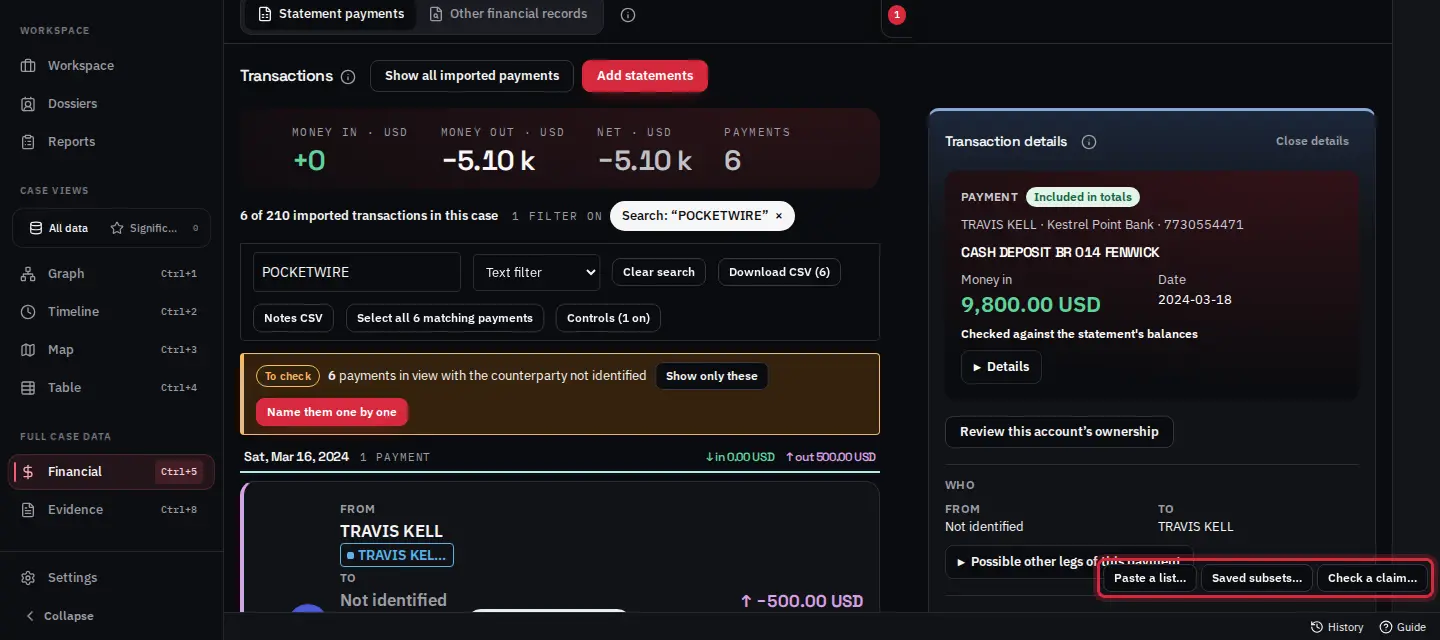
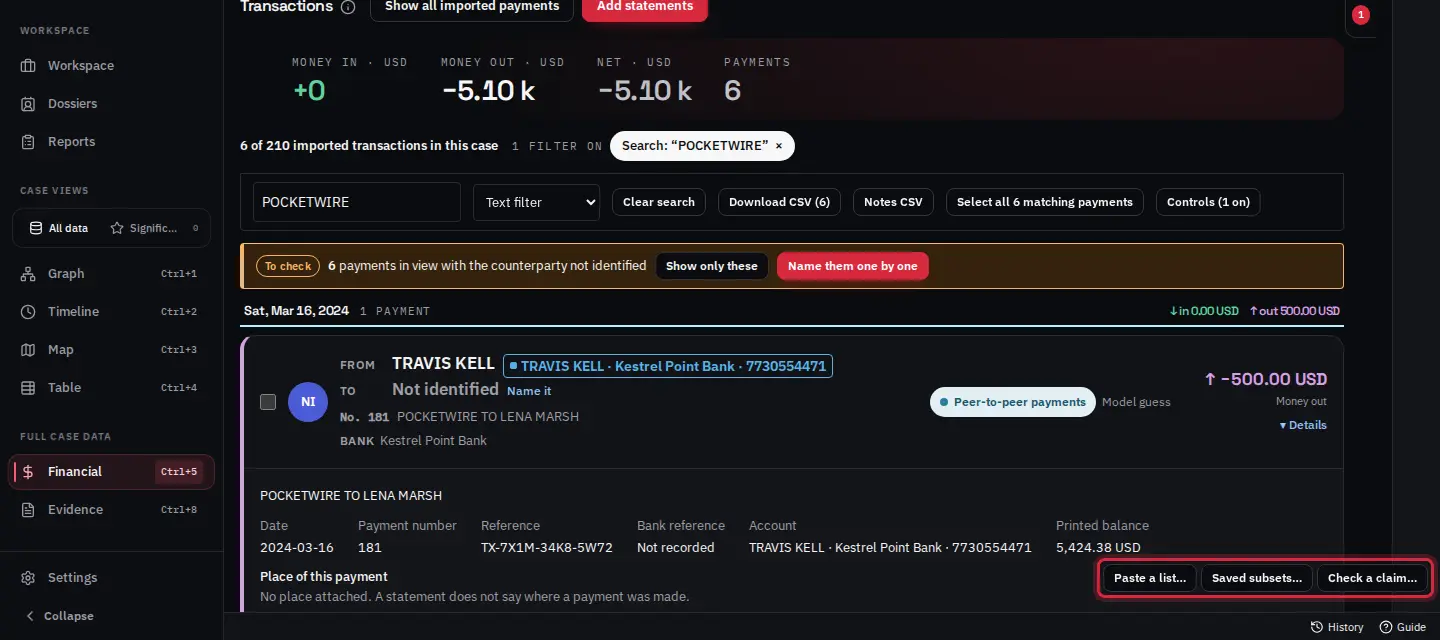
Workflow guide: Corroborate on by default, both versions taught
Corroborate's newer version is now on for everyone (?corroborate-v2=off
turns it off). With it on, a payment's Corroborate adds it to the
selection and opens a panel over the page; the classic version's steps
no longer describe what a person sees. A step can now be hidden while a
switch is on (unless), so the Corroborate workflow carries the classic
path for a browser with the switch off and the new one (Corroborate,
Leads already here, Ask a new question, the selection, the answer in
Leads) for everyone else; tests check every workflow has 4 to 12 steps
with all switches on and with all off.

The seven new Corroborate features the coverage test listed as
exceptions ("behind the new Corroborate") now each have a step, taken
live with the switch on: Show these records (Leads), Who overlaps with
whom and Also elsewhere (Who was in contact), Money around an event
(Where did the money go, the five theft nights), People, go-betweens
and documents (Graph), and comparing drawn areas (Was he there).

Stills: each picture starts with an empty Corroborate selection, the
view-only reads behind the panel and Around an event are allowed, and
the conversation "also reviewing" signal no longer fails a run. Live
check: --corroborate on|off.

diff --git a/frontend_v2/src/features/guidance/workflows/tutorials/casework.ts b/frontend_v2/src/features/guidance/workflows/tutorials/casework.ts
@@ -97,14 +97,17 @@ export const DISCONFIRM: TutorialStep[] = [
 ]
 
 /** Corroborate: how could these items be linked? */
+const CLASSIC_RESULT = "Open Details on a payment: Corroborate is inside, and its result opens on a page of its own."
 export const CORROBORATE: TutorialStep[] = [
+  // the classic Corroborate, for a browser with the new one turned off
   {
     title: "Mark the items as possibly related",
-    body: "Press Corroborate beside Add to theory on any payment, event, message, map area or search hit. Loupe saves them as one group and checks it against the records.",
+    body: "Press Corroborate beside Add to theory on any payment, event, message, map area or search hit, then Start a new look. Loupe saves them as one group and checks it against the records.",
     expect: "Corroborate in the details of the Pocketwire payments to Lena Marsh and Desmond Okafor.",
     shot: "co-payment",
     alt: "A payment's details with the Corroborate button marked.",
-    open: { to: "financial?view=transactions", target: ["text=Corroborate", "text=▸ Details"], then: "Open Details on a payment: Corroborate is inside, and its result opens on a page of its own." },
+    open: { to: "financial?view=transactions", target: ["text=Corroborate", "text=▸ Details"], then: CLASSIC_RESULT },
+    unless: "corroborate-v2",
   },
   {
     title: "Read the result",
@@ -112,7 +115,8 @@ export const CORROBORATE: TutorialStep[] = [
     expect: "6 items marked as possibly related: 15 pairs, 8 candidate links (0 strong, 4 moderate, 3 weak, 1 faint), 9 pairs with no link found.",
     shot: "co-header",
     alt: "A Corroborate result with its heading and counts marked.",
-    open: { to: "financial?view=transactions", target: ["text=Corroborate", "text=▸ Details"], then: "Open Details on a payment: Corroborate is inside, and its result opens on a page of its own." },
+    open: { to: "financial?view=transactions", target: ["text=Corroborate", "text=▸ Details"], then: CLASSIC_RESULT },
+    unless: "corroborate-v2",
   },
   {
     title: "Check each candidate link",
@@ -120,7 +124,8 @@ export const CORROBORATE: TutorialStep[] = [
     expect: "Moderate, Order of events: 500.00 USD to Lena Marsh on 13 April 2024, a phone position at 03:30 that night, then 1,200.00 USD to Desmond Okafor on 14 April. By chance, both would fall on the same day on 3.3% of days.",
     shot: "co-result",
     alt: "The candidate links, marked, each with its strength and the chance.",
-    open: { to: "financial?view=transactions", target: ["text=Corroborate", "text=▸ Details"], then: "Open Details on a payment: Corroborate is inside, and its result opens on a page of its own." },
+    open: { to: "financial?view=transactions", target: ["text=Corroborate", "text=▸ Details"], then: CLASSIC_RESULT },
+    unless: "corroborate-v2",
   },
   {
     title: "See where no link was found",
@@ -128,7 +133,8 @@ export const CORROBORATE: TutorialStep[] = [
     expect: "9 pairs with no link found, each with what was searched.",
     shot: "co-nolink",
     alt: "Pairs with no link found, marked.",
-    open: { to: "financial?view=transactions", target: ["text=Corroborate", "text=▸ Details"], then: "Open Details on a payment: Corroborate is inside, and its result opens on a page of its own." },
+    open: { to: "financial?view=transactions", target: ["text=Corroborate", "text=▸ Details"], then: CLASSIC_RESULT },
+    unless: "corroborate-v2",
   },
   {
     title: "Ask how they could be linked",
@@ -136,15 +142,53 @@ export const CORROBORATE: TutorialStep[] = [
     expect: "Ask how they could be linked, Export report (PDF) and Run again above the items.",
     shot: "co-actions",
     alt: "The result's buttons, Ask how they could be linked among them, marked.",
-    open: { to: "financial?view=transactions", target: ["text=Corroborate", "text=▸ Details"], then: "Open Details on a payment: Corroborate is inside, and its result opens on a page of its own." },
+    open: { to: "financial?view=transactions", target: ["text=Corroborate", "text=▸ Details"], then: CLASSIC_RESULT },
+    unless: "corroborate-v2",
+  },
+  // the new Corroborate
+  {
+    title: "Choose what to corroborate",
+    body: "Press Corroborate beside Add to theory on a payment, a dossier person, a phone's summary, a line on the Graph or a photo. What you chose joins the selection in the corner of the screen, and a panel opens over the page.",
+    expect: "Corroborate in the details of the Pocketwire payment of 500.00 USD to Lena Marsh on 16 March 2024.",
+    shot: "co2-payment",
+    alt: "A payment's details with the Corroborate button marked.",
+    open: { to: "financial?view=transactions", target: ["text=Corroborate", "text=▸ Details"], then: "Open Details on a payment: Corroborate is inside." },
+    switch: "corroborate-v2",
+  },
+  {
+    title: "See the leads already found",
+    body: "Leads already here lists the leads that touch what you chose: its records, its people or its dates. Each gives its level and the counts behind it.",
+    expect: "Leads already here 1: Strong link, Money. Travis Kell pays $500.00 to Lena Marsh and $1,200.00 to Desmond Okafor after 5 of the 5 key nights, none of the 164 ordinary days.",
+    shot: "co2-panel",
+    alt: "The Corroborate panel over the page, with Leads already here marked.",
+    open: { to: "financial?view=transactions", target: ['[data-guide="corroborate-panel-here"]', "text=Corroborate", "text=▸ Details"], then: "Open Details on a payment and press Corroborate: the panel opens over the page." },
+    switch: "corroborate-v2",
+  },
+  {
+    title: "Ask a new question",
+    body: "Ask a new question offers the questions that fit what you chose, each with its count, or Choose the question yourself. Nothing runs until you press one. The answer is saved to Leads as Asked by you: a reading by Loupe until you confirm it.",
+    expect: "What do you want to know? Is this payment connected to the rest of the selection? (1 payment), Who else is connected to these? (1 item), and Choose the question yourself.",
+    shot: "co2-question",
+    alt: "The panel's Ask a new question tab, marked, with the questions it offers.",
+    open: { to: "financial?view=transactions", target: ['[data-guide="corroborate-panel-ask"]', "text=Corroborate", "text=▸ Details"], then: "Open Details on a payment and press Corroborate: the panel opens over the page." },
+    switch: "corroborate-v2",
   },
   {
     title: "Gather a selection across screens",
-    body: "With the new Corroborate on, what you pick on any screen gathers in a tray in the corner and stays as you move between screens. Corroborate then offers questions about the selection, each with its count.",
-    expect: "The Corroborate tray in the corner of the Transactions screen.",
+    body: "What you choose on any screen gathers in the selection in the corner and stays as you move between screens. Its Corroborate asks about the whole selection; Paste a list, Check a claim and Save or combine are beside it.",
+    expect: "With nothing chosen yet, the corner of the Transactions screen offers Paste a list…, Saved subsets… and Check a claim….",
     shot: "co-tray",
-    alt: "The Corroborate tray, marked.",
+    alt: "The Corroborate selection in the corner, marked.",
     open: { to: "financial?view=transactions", target: ['[data-guide="corroborate-tray"]'] },
+    switch: "corroborate-v2",
+  },
+  {
+    title: "Read the answer in Leads",
+    body: "Open in Leads goes to the answer. Each lead gives its level, the counts on both sides, and what raises and lowers it. No link found says what was searched; it is not proof that no link exists.",
+    expect: "24 leads, the first Strong link, Contact: Lena Marsh and Desmond Okafor each in contact with the user of Phone 3 within 7 minutes of each other on 5 nights, 5 of 5 incident Fridays against none of the 11 other Fridays.",
+    shot: "leads-list",
+    alt: "Leads, strongest first.",
+    open: { to: "leads", target: ['[data-guide="leads-list"]'] },
     switch: "corroborate-v2",
   },
   {
@@ -236,6 +280,15 @@ export const LEADS: TutorialStep[] = [
     switch: "corroborate-v2",
   },
   {
+    title: "See a lead's records on every screen",
+    body: "Show these records marks the lead's records on every screen until you stop. A bar at the foot of each page links to Conversations, the Timeline and the Map, each opened at the lead's days, and marks each record In the open lead.",
+    expect: "Show these records on the first lead, Strong link, Contact, 52 records.",
+    shot: "leads-show",
+    alt: "A lead with Show these records marked.",
+    open: { to: "leads", target: ['[data-guide="lead-show-records"]'] },
+    switch: "corroborate-v2",
+  },
+  {
     title: "Look again after new material",
     body: "Look for leads now reads the whole case again. A case read in under 20 minutes is looked at again by itself when new material arrives.",
     expect: "Look for leads now at the top of the page.",
@@ -323,6 +376,15 @@ export const GRAPH: TutorialStep[] = [
     shot: "table-grid",
     alt: "The Table with its tool bar marked.",
     open: { to: "table", target: ['[data-guide="table-toolbar"]'] },
+  },
+  {
+    title: "See who reaches whom",
+    body: "Graph, People, go-betweens and documents: who reaches whom directly, through go-betweens, and through the documents that name them. A name read from a document by a model says so, with its page; nothing is confirmed until a person checks it.",
+    expect: "Documents naming two or more of them: 17 of 43 name two or more phone owners, such as kell-2024-03.pdf naming Travis Kell, Lena Marsh and Desmond Okafor, each read by a model on page 1.",
+    shot: "gr-overlap",
+    alt: "The graph of people, go-betweens and documents, marked.",
+    open: { to: "graph?graph-mode=people", target: ['[data-guide="graph-overlap"]'] },
+    switch: "corroborate-v2",
   },
   {
     title: "Keep what matters",

diff --git a/frontend_v2/src/features/guidance/workflows/workflows.test.tsx b/frontend_v2/src/features/guidance/workflows/workflows.test.tsx
@@ -35,13 +35,6 @@ const EXCEPTIONS: Record<string, string> = {
   "map-review": "Places that need review are a check on the map's addresses, not a step of a workflow.",
   "record-panel-sheet": "How a phone record opens over the page, on every phone workflow alike.",
   "changed-since-cited": "Changed since cited shows on a theory only after its evidence changes; the theories guide explains it.",
-  "graph-overlap": "Behind the new Corroborate; the Graph guide explains it.",
-  "also-elsewhere": "Behind the new Corroborate; a mark in Conversations that the phones guide explains.",
-  "corroborate-panel": "Behind the new Corroborate; the Corroborate guide explains the panel over the page.",
-  "lead-records": "Behind the new Corroborate; a button on each lead that the Corroborate guide explains.",
-  "around-event": "Behind the new Corroborate; the Corroborate guide explains Money around an event.",
-  "who-overlaps": "Behind the new Corroborate; the Corroborate guide explains Who overlaps with whom.",
-  "area-compare": "Behind the new Corroborate; the Corroborate guide explains comparing drawn areas.",
   "search-notifications": "What search reads, not a control; Search the whole case uses it.",
   "dossier-addresses": "Map positions of a dossier's addresses show inside the dossier; the dossiers guide explains them.",
   "phones-together":
@@ -76,11 +69,16 @@ describe("the workflow catalogue (lx-workflowguide F)", () => {
         expect(s.open.to.startsWith("/"), `${w.id}: ${s.title} opens an address inside the case`).toBe(false)
       }
       // the list says which switches a workflow's steps wait behind
-      const behind = [...new Set(steps.map((s) => s.switch).filter(Boolean))].sort()
+      const behind = [...new Set(steps.flatMap((s) => [s.switch, s.unless]).filter(Boolean))].sort()
       expect([...w.switches].sort(), `${w.id} switches`).toEqual(behind)
-      // with every switch off, a person still has 4 steps, unless the whole workflow waits behind a switch
+      // with every switch off, and with every switch on, a person still has 4 to 12 steps, unless the whole workflow
+      // waits behind a switch that is off
       const off = stepsShown(steps, { "corroborate-v2": false, phone_layers: false })
       if (off.length) expect(off.length, `${w.id} with switches off`).toBeGreaterThanOrEqual(4)
+      expect(off.length, `${w.id} with switches off`).toBeLessThanOrEqual(12)
+      const on = stepsShown(steps, { "corroborate-v2": true, phone_layers: true })
+      expect(on.length, `${w.id} with switches on`).toBeGreaterThanOrEqual(4)
+      expect(on.length, `${w.id} with switches on`).toBeLessThanOrEqual(12)
     }
   })
 
@@ -121,11 +119,14 @@ describe("the workflow catalogue (lx-workflowguide F)", () => {
     expect(named.filter((id) => !CATALOGUE.some((w) => w.id === id))).toEqual([])
   })
 
-  it("a step behind a switch that is off is hidden, and a workflow with no step left is not listed", () => {
+  it("a step behind a switch that is off is hidden, a step the switch replaces is hidden while it is on, and a workflow with no step left is not listed", () => {
     const on = workflowsShown({ "corroborate-v2": true, phone_layers: true })
     const off = workflowsShown({ "corroborate-v2": false, phone_layers: false })
     for (const w of off) expect(w.steps.every((s) => !s.switch), w.id).toBe(true)
-    for (const w of on) expect(w.steps.length).toBe(TUTORIALS[w.id].length)
+    for (const w of on) expect(w.steps.every((s) => !s.unless), w.id).toBe(true)
+    // a step for the version a switch replaces shows only while that switch is off
+    const classic = Object.values(TUTORIALS).flat().filter((s) => s.unless)
+    for (const s of classic) expect(off.flatMap((w) => w.steps).includes(s), s.title).toBe(true)
   })
 })
 

diff --git a/frontend_v2/src/features/guidance/workflows/tutorials/phones.ts b/frontend_v2/src/features/guidance/workflows/tutorials/phones.ts
@@ -35,6 +35,24 @@ export const CONTACT: TutorialStep[] = [
     open: { to: "graph", target: ['[data-guide="graph-people-in-contact"]'] },
   },
   {
+    title: "See who overlaps with whom",
+    body: "Dossiers, Who overlaps with whom: a square for each pair of people, with the level of the pair's lead. Pick a square to see each kind of overlap with its records. Worth a look lists pairs who never contact each other directly but are linked another way.",
+    expect: "Travis Kell and Desmond Okafor: Strong, 6 kinds. Worth a look: Lena Marsh and Travis Kell never message or call each other, yet 5 payments pass between them, $2,500.00 in all.",
+    shot: "do-overlaps",
+    alt: "Who overlaps with whom, a square for each pair, with its heading marked.",
+    open: { to: "dossiers?tab=overlaps", target: ['[data-guide="dossiers-overlaps"]'] },
+    switch: "corroborate-v2",
+  },
+  {
+    title: "Find words also on another phone",
+    body: "In Conversations, open a thread and tick Mark what also appears elsewhere. Also elsewhere lists the same words on two or more phones, a message held on two phones counted once, and what was deleted on one phone and kept on another. A stock phrase is shown but counted for nothing.",
+    expect: "10 phrases, among them “tonight. 11. same as before” on Desmond Okafor's and Travis Kell's phones on 5 dates; deleted on one phone and kept on another: “left something in the tow truck, need it back”.",
+    shot: "ph-elsewhere",
+    alt: "A conversation with Also elsewhere open, the words on other phones marked.",
+    open: { to: "conversations", target: ['[data-guide="also-elsewhere"]'], then: "Open a thread: Mark what also appears elsewhere is above its messages." },
+    switch: "corroborate-v2",
+  },
+  {
     title: "Compare two phones",
     body: "Phones, Compare phones: choose two. It counts the messages and calls only on one, on both, and outside the other phone's period.",
     expect: "Phone 1 against Phone 2: 189 messages only on Phone 1, 17 on both, 398 only on Phone 2.",
@@ -86,6 +104,15 @@ export const THERE: TutorialStep[] = [
     shot: "map-areas",
     alt: "The map's Areas control, marked.",
     open: { to: "map", target: ['[data-guide="map-areas"]'] },
+  },
+  {
+    title: "Compare the areas night by night",
+    body: "With one or more areas drawn, Look into this area over time (or Compare these areas over time) shows who was inside, night by night, who is in both and in what order, and everything inside. Money around these nights opens the money after them.",
+    expect: "Look into this area over time appears once an area is drawn.",
+    shot: "map-areas",
+    alt: "The map's Areas control, marked.",
+    open: { to: "map", target: ['[data-guide="area-compare"]', '[data-guide="map-areas"]'], then: "Draw an area first: Areas, then Draw area." },
+    switch: "corroborate-v2",
   },
   {
     title: "Look at one phone's day",

diff --git a/frontend_v2/src/features/guidance/workflows/catalogue.ts b/frontend_v2/src/features/guidance/workflows/catalogue.ts
@@ -67,7 +67,8 @@ export const CATALOGUE: WorkflowEntry[] = [
     questions: ["money"],
     kinds: ["fraud", "drugs", "any"],
     areas: ["financial", "theory"],
-    features: ["financial-ledger", "financial-trace", "financial-coverage", "add-to-theory"],
+    features: ["financial-ledger", "financial-trace", "financial-coverage", "around-event", "add-to-theory"],
+    switches: ["corroborate-v2"],
   }),
   // Who was in contact?
   W({
@@ -77,7 +78,8 @@ export const CATALOGUE: WorkflowEntry[] = [
     questions: ["contact"],
     kinds: ["any"],
     areas: ["phones", "conversations", "graph"],
-    features: ["phones", "conversations", "people-in-contact", "phone-compare", "phone-analyses"],
+    features: ["phones", "conversations", "people-in-contact", "who-overlaps", "also-elsewhere", "phone-compare", "phone-analyses"],
+    switches: ["corroborate-v2"],
   }),
   // Was he there?
   W({
@@ -87,8 +89,8 @@ export const CATALOGUE: WorkflowEntry[] = [
     questions: ["there"],
     kinds: ["any", "defence"],
     areas: ["map", "phones", "timeline"],
-    features: ["map", "map-routes", "phone-layers", "phone-patterns", "timeline-phone-lens"],
-    switches: ["phone_layers"],
+    features: ["map", "map-routes", "area-compare", "phone-layers", "phone-patterns", "timeline-phone-lens"],
+    switches: ["corroborate-v2", "phone_layers"],
   }),
   // What happened, and when?
   W({
@@ -126,7 +128,8 @@ export const CATALOGUE: WorkflowEntry[] = [
     questions: ["who", "contact"],
     kinds: ["any"],
     areas: ["graph", "table"],
-    features: ["graph", "people-in-contact", "graph-merge", "table"],
+    features: ["graph", "people-in-contact", "graph-merge", "table", "graph-overlap"],
+    switches: ["corroborate-v2"],
   }),
   W({
     id: "search",
@@ -164,7 +167,7 @@ export const CATALOGUE: WorkflowEntry[] = [
     questions: ["theory", "contact"],
     kinds: ["any"],
     areas: ["relations", "corroborate"],
-    features: ["corroborate-classic", "corroborate-tray", "corroborate-levels"],
+    features: ["corroborate-classic", "corroborate-panel", "corroborate-tray", "corroborate-levels"],
     assistant: "link-group",
     switches: ["corroborate-v2"],
   }),
@@ -185,7 +188,7 @@ export const CATALOGUE: WorkflowEntry[] = [
     questions: ["theory", "contact"],
     kinds: ["any"],
     areas: ["leads"],
-    features: ["leads", "leads-auto"],
+    features: ["leads", "lead-records", "leads-auto"],
     switches: ["corroborate-v2"],
   }),
   W({

diff --git a/frontend_v2/src/features/guidance/workflows/tutorials/money.ts b/frontend_v2/src/features/guidance/workflows/tutorials/money.ts
@@ -63,6 +63,15 @@ export const MONEY: TutorialStep[] = [
     open: { to: "financial?view=transactions", target: SEARCH },
   },
   {
+    title: "See the money around each event",
+    body: "Financial, Around an event: under Choose events, tick the dates the case states or add your own. For each event, bank rows and payment alerts on the phones from that day to a week after, marked BANK + PHONE, PHONE ONLY or BANK ONLY. Money as common in other weeks is set apart.",
+    expect: "The five theft nights, each from its police report: after 5 of 5, Travis Kell pays Lena Marsh the same day ($2,500.00 in all) and Desmond Okafor the day after ($6,000.00), cash goes into his account two days after ($48,950.00), and checks 1043 to 1080 are paid to him six days after ($17,950.00).",
+    shot: "money-around",
+    alt: "Money around each event for the five theft nights, with the first payment marked BANK + PHONE.",
+    open: { to: "financial?view=overview", target: ['[data-guide="around-event"]'] },
+    switch: "corroborate-v2",
+  },
+  {
     title: "Keep what you found",
     body: "Record the pattern as a finding and attach its payments: Findings & Observations, then Create finding. From a payment's details, Add to theory files it with a theory as evidence for or against.",
     expect: "Findings & Observations with its Create finding button. The demo case has no saved findings yet.",

diff --git a/frontend_v2/src/features/guidance/workflows/types.ts b/frontend_v2/src/features/guidance/workflows/types.ts
@@ -28,6 +28,8 @@ export interface TutorialStep {
   open: { to: string; target?: string[]; then?: string }
   /** Hidden while this switch is off in the person's browser. */
   switch?: WorkflowSwitch
+  /** Hidden while this switch is on: a step for the version the switch replaces, such as the classic Corroborate. */
+  unless?: WorkflowSwitch
 }
 
 /** One line of the catalogue (catalogue.ts): what the list shows and groups by. The steps are in tutorials/. */
@@ -44,7 +46,7 @@ export interface WorkflowEntry {
   features: string[]
   /** The assistant's guided workflow of the same name (backend services/agent/workflows.py), when there is one. */
   assistant?: string
-  /** The switches any of its steps sits behind (each off unless turned on in the browser); the test checks the steps. */
+  /** The switches any of its steps depends on, shown with them on or off (switch or unless); the test checks the steps. */
   switches: WorkflowSwitch[]
 }
 

diff --git a/frontend_v2/src/features/guidance/workflows/available.ts b/frontend_v2/src/features/guidance/workflows/available.ts
@@ -4,9 +4,12 @@ import type { TutorialStep, Workflow, WorkflowSwitch } from "./types"
 
 export type SwitchState = Record<WorkflowSwitch, boolean>
 
-/** The steps a person sees: a step behind a switch that is off in their browser is left out, as tours do. */
+/**
+ * The steps a person sees: a step behind a switch that is off in their browser is left out, as tours do, and so is a
+ * step for the version a switch that is on replaces.
+ */
 export function stepsShown(steps: TutorialStep[], switches: SwitchState): TutorialStep[] {
-  return steps.filter((s) => !s.switch || switches[s.switch])
+  return steps.filter((s) => (!s.switch || switches[s.switch]) && (!s.unless || !switches[s.unless]))
 }
 
 /** Every workflow with its steps; one whose every step waits behind a switch that is off is not listed. */

diff --git a/frontend_v2/src/features/guidance/workflows/README.md b/frontend_v2/src/features/guidance/workflows/README.md
@@ -8,7 +8,9 @@ next-step cards open a workflow directly.
   under, the areas it passes through, the guidance features it shows and the switches its steps sit behind.
 - `tutorials/`: each workflow's steps. A step has an instruction, what the person should see on the demo case
   ("Demo: State v. Mateo Ruiz (synthetic)"), a picture, its alt text, and the screen and control "Open this screen"
-  goes to.
+  goes to. `open.then` says what to do on that screen first when the control sits inside something the person opens
+  (one theory, a payment's Details); the step bar shows it until the control is ringed. `switch` hides a step while
+  that switch is off; `unless` hides it while the switch is on (the classic Corroborate's steps).
 - `WorkflowGuide.tsx`: the list and the tutorial. `WorkflowHost.tsx` opens it on the `loupe:open-workflow` event
   (`open.ts`).
 - `workflows.test.tsx`: every workflow has 4 to 12 steps; every picture exists at both widths and has a recipe;
@@ -26,7 +28,9 @@ node journeys/workflow-stills.mjs
 
 One picture: `--only money-cash`. One width: `--width 390`. `--dump <dir>` also writes each screen's words, to check
 a step's "you should see" line against the screen. The script stops every request that would change the case and
-exits 1 if any picture failed or any request was stopped.
+exits 1 if any picture failed or any request was stopped (the conversation "also reviewing" signal is stopped and
+listed but fails nothing). Each picture starts from the default switches and an empty Corroborate selection; a recipe
+that needs a switch sets it in its address (`?corroborate-v2=on`, or `=off` for the classic Corroborate).
 
 The pictures are `public/docs/workflows/img/<shot>-1440.webp` (desktop) and `<shot>-390.webp` (phone width, cropped
 to the part of the screen that matters). A step's `shot` names its recipe in `SHOTS` in the script.
@@ -41,6 +45,10 @@ When a screen changes, also read the step's words again: the numbers in "you sho
 ```
 node journeys/live-workflowguide.mjs --out <dir> --follow money,contact,corroborate --ends --quiet
 ```
+
+`--open-all` presses Open this screen on every step of every workflow and lists each step whose control was not
+ringed, with what the step bar said. `--corroborate on` or `off` sets the Corroborate switch in that browser first, to
+walk the steps of either version.
 
 `--follow` walks each named workflow step by step with Next and the arrow keys and presses Open this screen on every
 step; `--ends` opens every workflow's first and last step and checks every picture loads; `--quiet` checks that a
